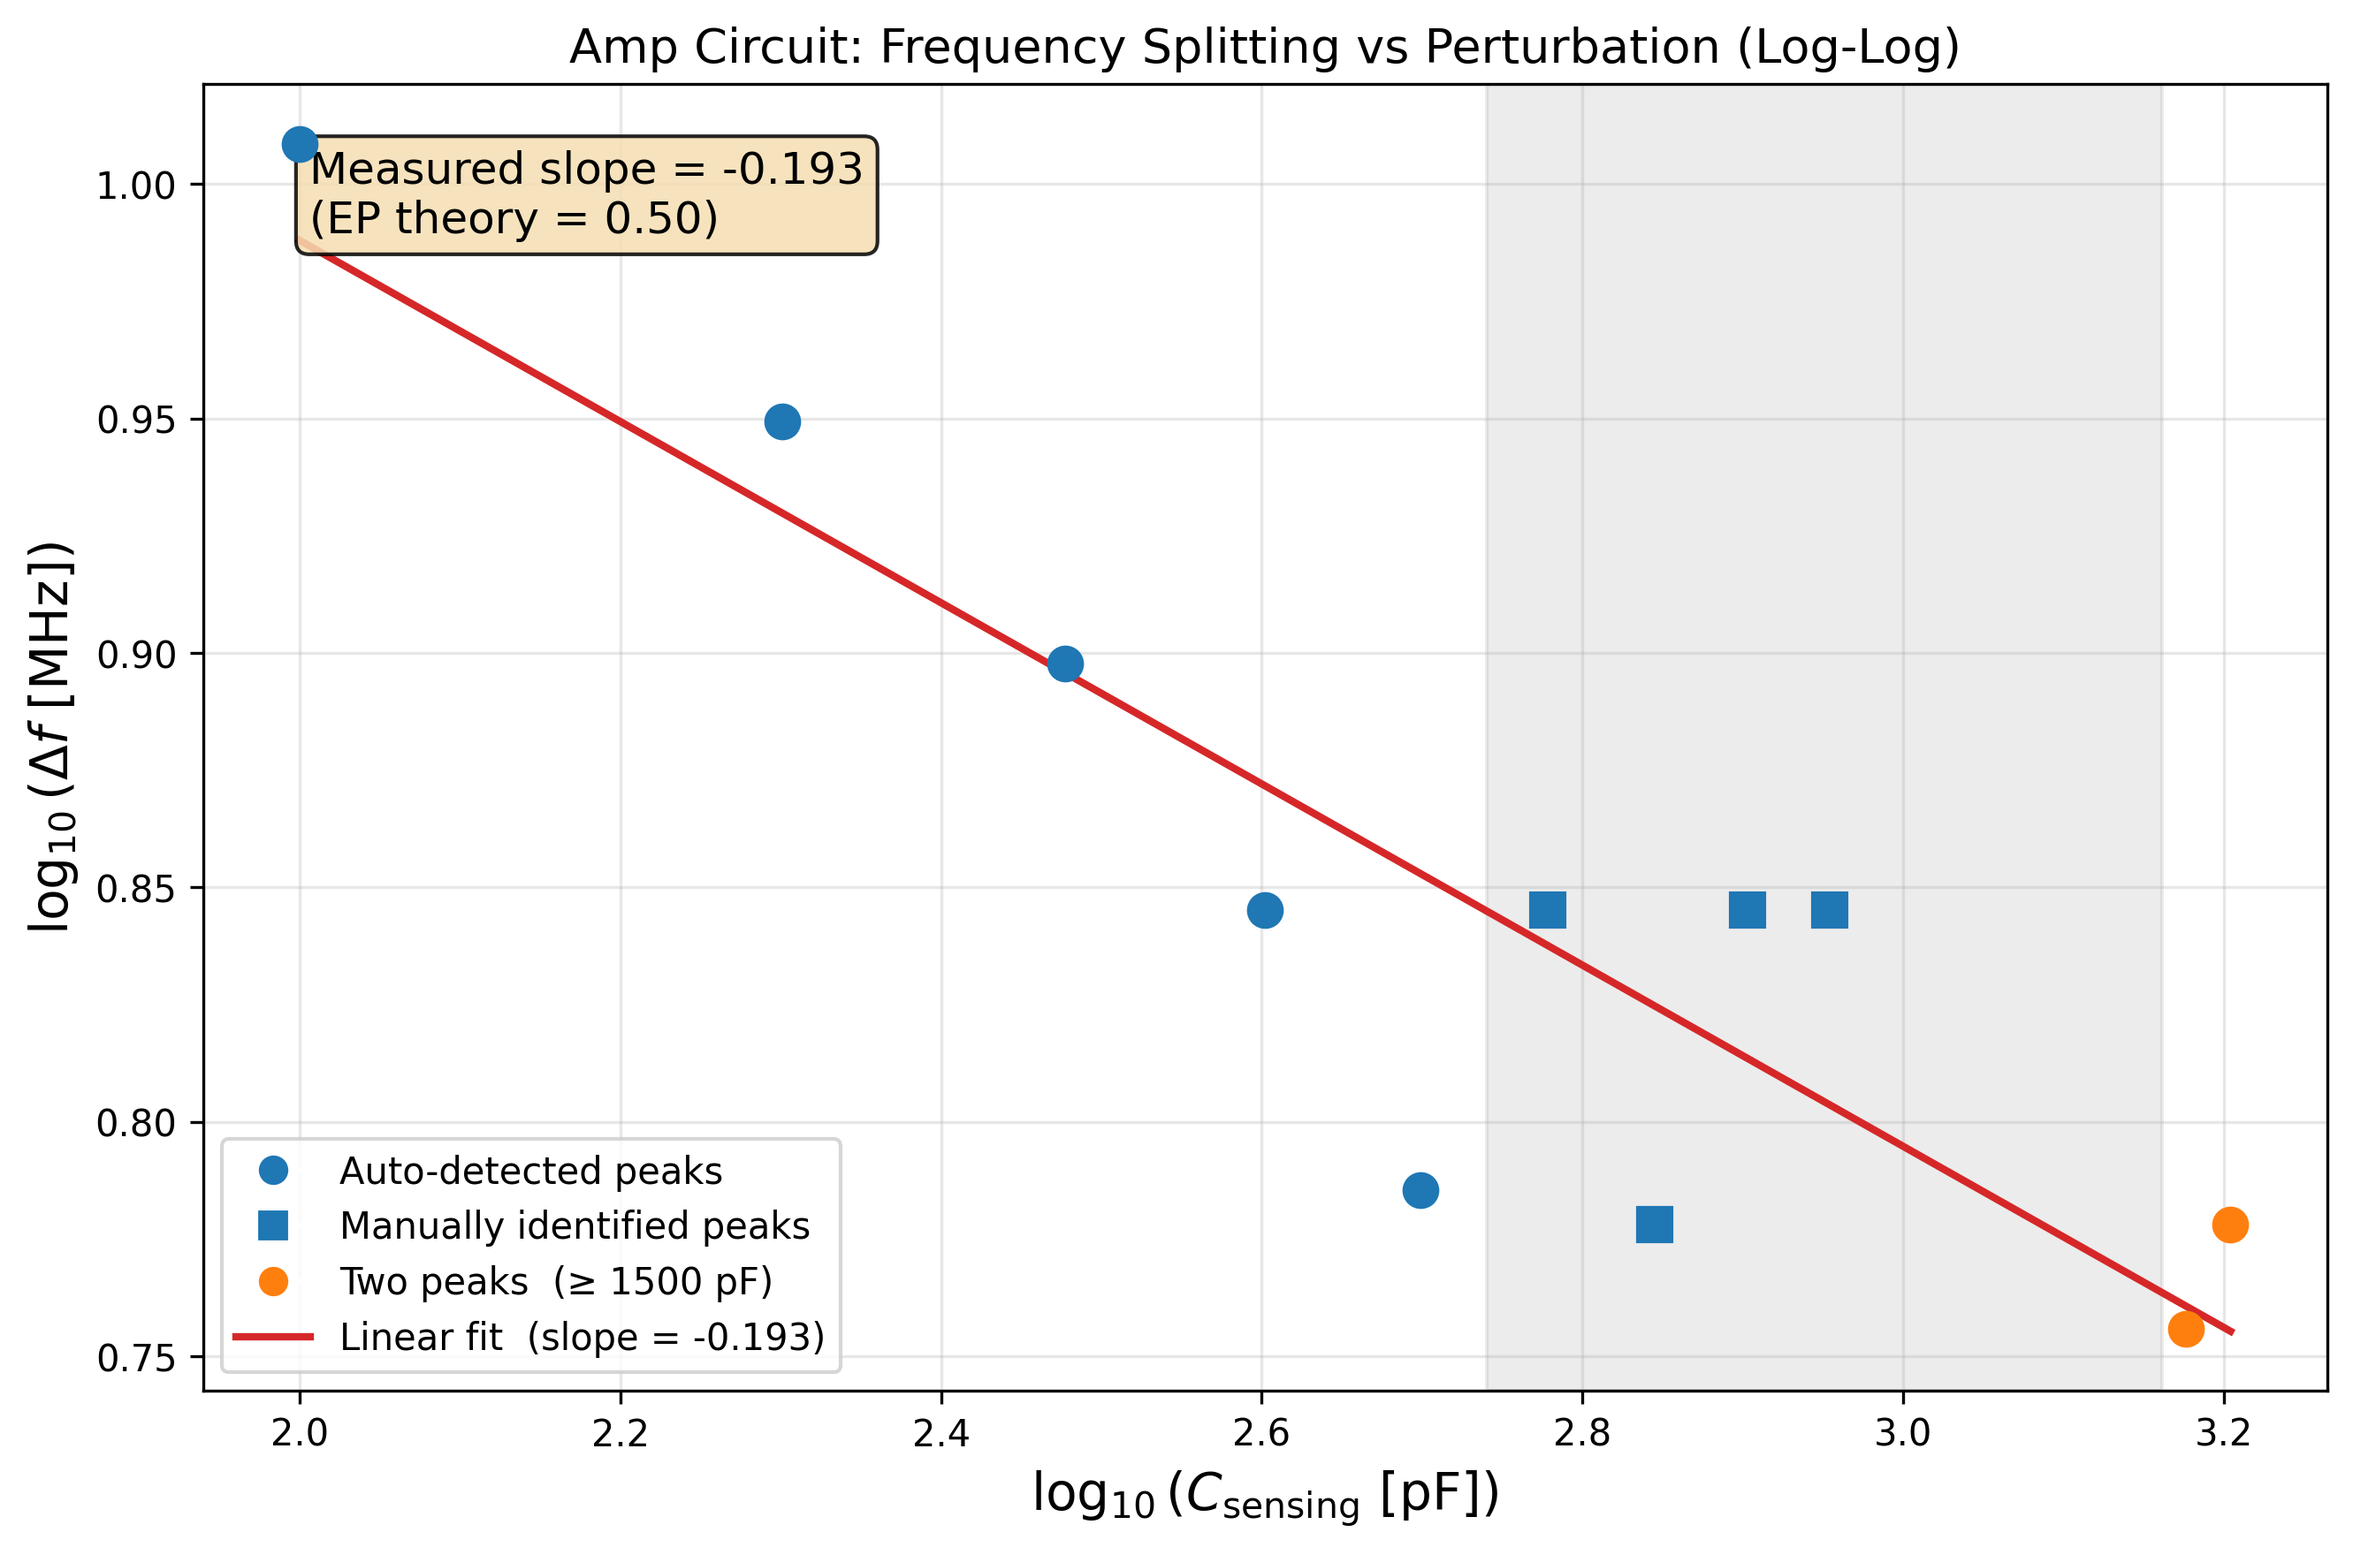
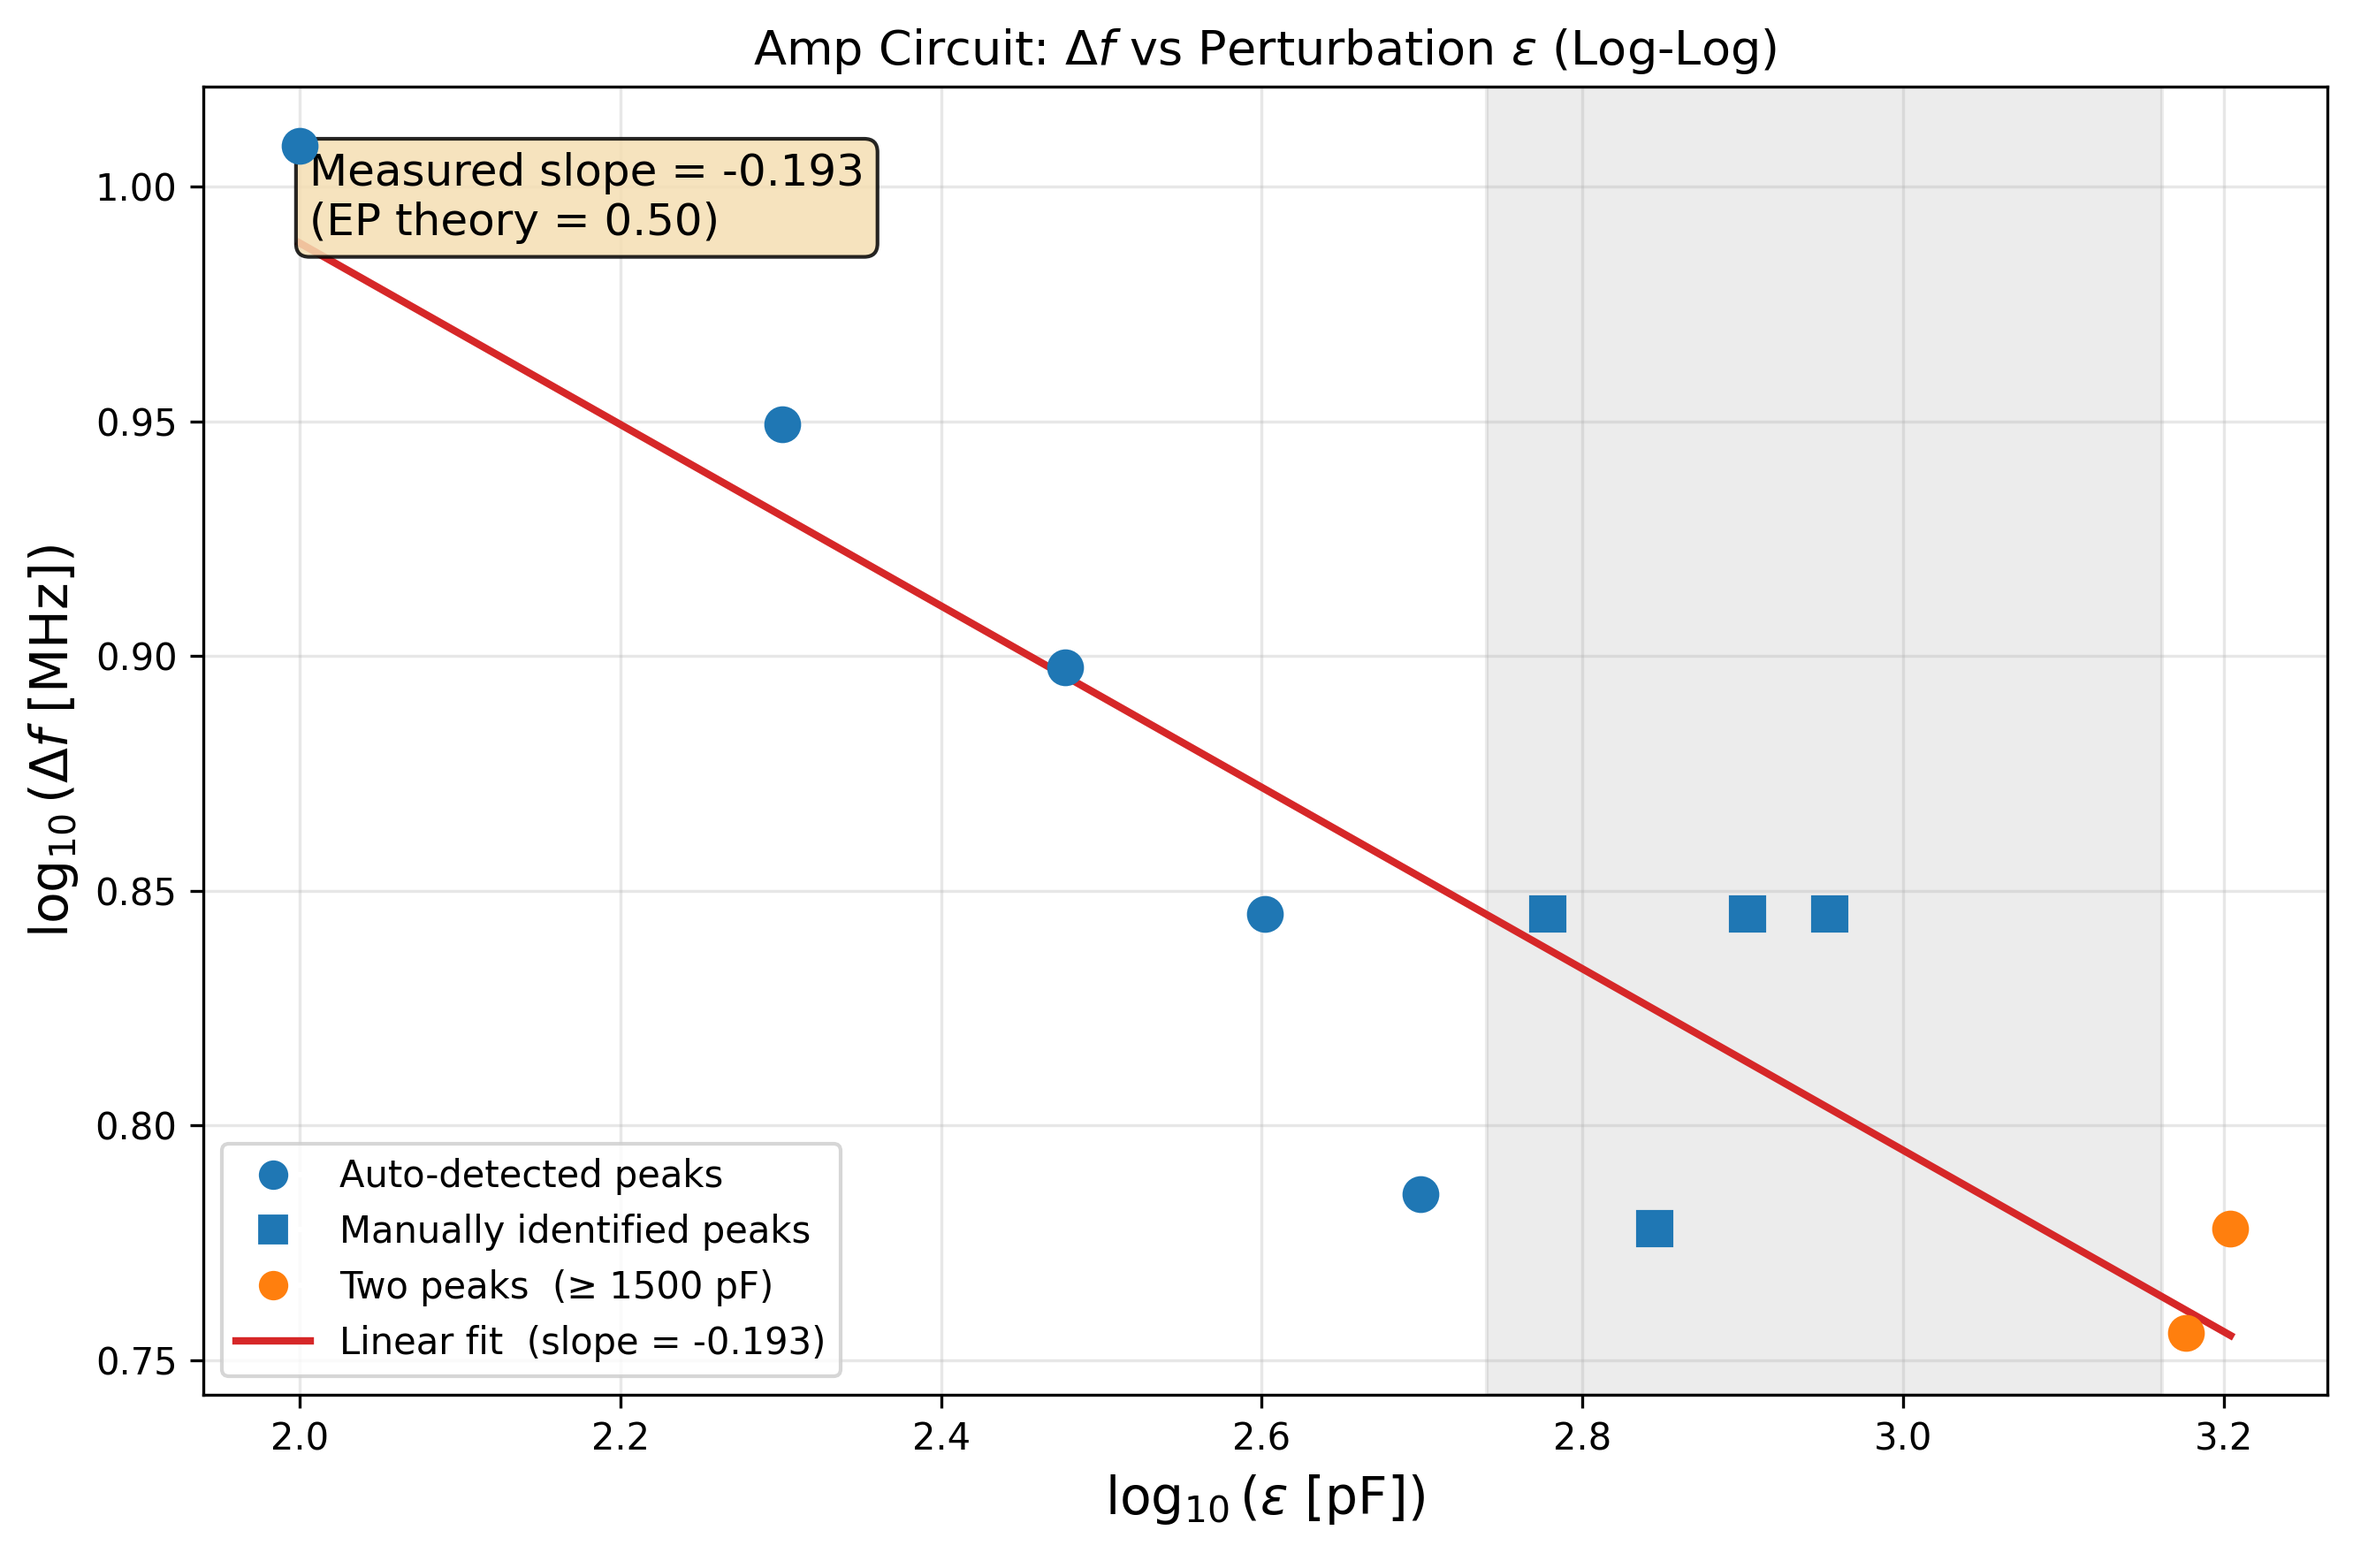
Relabel x-axis as perturbation ε instead of Csensing
https://claude.ai/code/session_01KGmhXano3uH9H8M19nEEQN

diff --git a/src/amp_circ_analysis.py b/src/amp_circ_analysis.py
@@ -155,9 +155,9 @@ def main():
     ]
     ax.legend(handles=handles, fontsize=10)
 
-    ax.set_xlabel(r'$\log_{10}(C_{\rm sensing}\ [\rm pF])$', fontsize=14)
+    ax.set_xlabel(r'$\log_{10}(\varepsilon\ [\rm pF])$', fontsize=14)
     ax.set_ylabel(r'$\log_{10}(\Delta f\ [\rm MHz])$', fontsize=14)
-    ax.set_title('Amp Circuit: Frequency Splitting vs Perturbation (Log-Log)',
+    ax.set_title(r'Amp Circuit: $\Delta f$ vs Perturbation $\varepsilon$ (Log-Log)',
                  fontsize=13)
     ax.grid(True, alpha=0.3)
 
